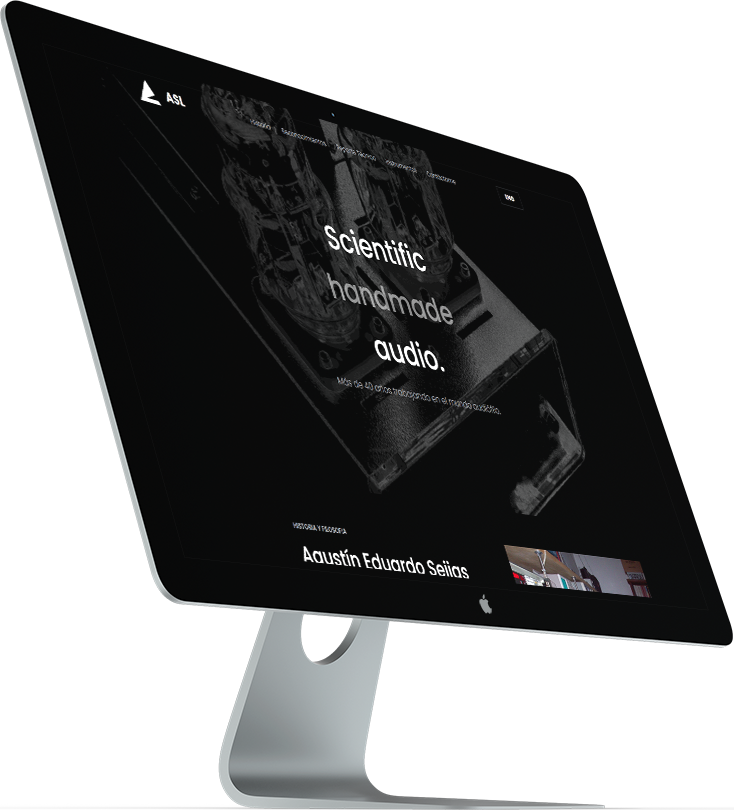
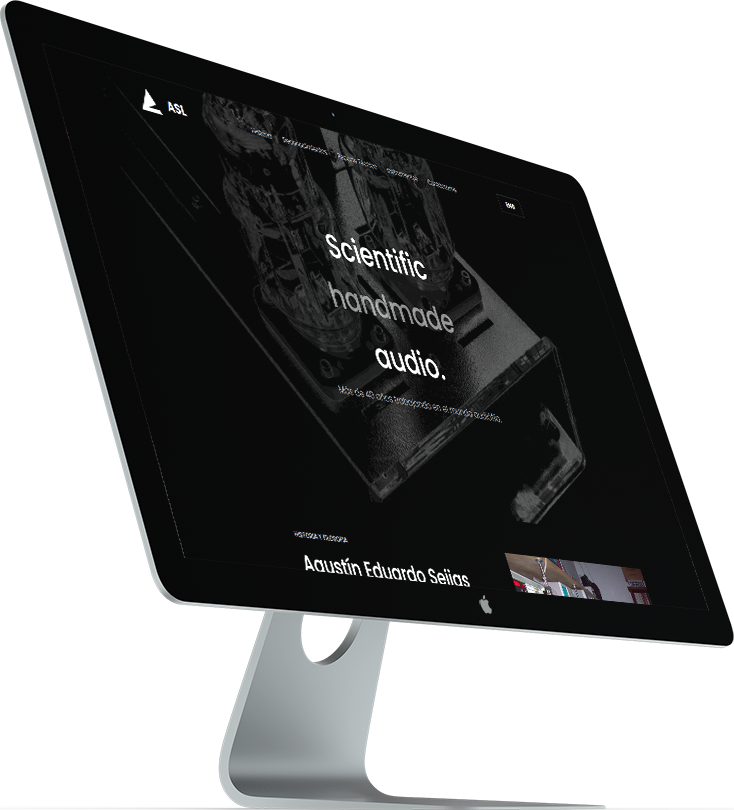
Update

diff --git a/index.html b/index.html
@@ -67,7 +67,7 @@
   <div class="container">
     <header class="module">
       <div class="cover">
-        <nav class="navbar navbar-expand-lg navbar-dark pt-5">
+        <nav class="navbar navbar-expand-lg navbar-dark pt-5" data-aos="fade-in" data-aos-duration="15000">
           <div class="container">
             <button class="navbar-toggler" type="button" data-bs-toggle="collapse" data-bs-target="#navbarText" aria-controls="navbarText" aria-expanded="false" aria-label="Toggle navigation">
               <span class="fa-sharp fa-solid fa-bars"></span>
@@ -95,11 +95,11 @@
       <div class="container custom-container-splash d-flex align-items-center justify-content-center">
         <div class="row">
           <div class="col-12 text-center">
-            <a class="d-none d-lg-block d-xl-block" data-aos="fade-down" data-aos-duration="15000" href="#"><img alt="mariano seijas logo" title="mariano seijas logo" class="splash mb-3 hvr-grow" src="img/logo.svg"></a>
+            <a class="d-none d-lg-block d-xl-block" data-aos="fade-down" data-aos-duration="15000" data-aos-delay="400" href="#"><img alt="mariano seijas logo" title="mariano seijas logo" class="splash mb-3 hvr-grow" src="img/logo.svg"></a>
             <a class="d-block d-sm-block d-md-block d-lg-none" data-aos="fade-down" data-aos-duration="15000" href="#"><img alt="mariano seijas logo" title="mariano seijas logo" class="iso" src="img/iso.svg"></a>
           </div>
           <div class="col-12 text-center">
-            <h3 class="display-6 mt-3 fw-light" data-aos="fade-up" data-aos-duration="15000" data-aos-delay="200">Estudio Creativo</h3>
+            <h3 class="display-6 mt-3 fw-light" data-aos="fade-up" data-aos-duration="15000" data-aos-delay="400">Estudio Creativo</h3>
           </div>
         </div>
       </div>
@@ -247,7 +247,7 @@
                     <div class="row row-cols-1 row-cols-sm-1 row-cols-md-2 row-cols-lg-2 d-flex align-items-center justify-content-center g-4" >
                       <div class="col-md-6 text-start" data-aos="fade-right" data-aos-duration="15000" data-aos-delay="400">
                         <h1 class="display-3 fw-bold">Diseño Gráfico</h1>
-                        <h3 class="fw-normal text-muted mb-3">Es importante llevar la identidad a todas partes.</h3>
+                        <h3 class="fw-normal text-muted mb-3">Desde flyers para redes hasta papelería comercial.</h3>
                       </div>
                       <div class="col-md-6 p-5" data-aos="fade-left" data-aos-duration="15000" data-aos-delay="400"><img alt="mariano seijas photo" title="mariano seijas photo" class="mockup" src="img/mockup-garfico.png">
                       </div>
@@ -345,7 +345,7 @@
           </div>
 
           <div class="row d-flex align-items-center text-center">
-              <span class="col text-muted"><a href="#"><img alt="logo footer" title="logo footer" class="logo-footer" src="img/logo.svg"></a></span>
+              <span class="col text-muted"><a href="#"><img alt="logo footer" title="logo footer" class="logo-footer hvr-grow" src="img/logo.svg"></a></span>
               <span class="col text-muted">© 2024</span>
           </div>
         </footer>

diff --git a/css/theme.css b/css/theme.css
@@ -25,8 +25,8 @@
   src:
     local("NotoSansDisplay.ttf"),
     url("../fonts/NotoSansDisplay.ttf") format("truetype");
-
 }
+
 body {
     overflow-x: hidden;
     width: 100%;
@@ -409,6 +409,25 @@ h1,h2,h3,h4,h5,h6 {
   max-width: 70px;
   position: relative;
   z-index: 1;
+  transform: translatey(0px);
+  animation: float 3s ease-in-out infinite;
+  img { width: 100%; height: auto; }
+}
+
+.arrow:hover{
+  opacity: 0.5;
+}
+
+@keyframes float {
+	0% {
+		transform: translatey(0px);
+	}
+	50% {
+		transform: translatey(-20px);
+	}
+	100% {
+		transform: translatey(0px);
+	}
 }
 
 .arrow-control{
